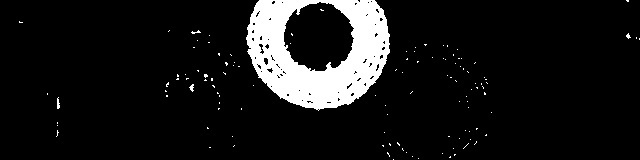
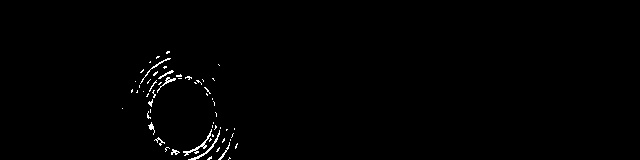
1126

diff --git a/GS_test.py b/GS_test.py
@@ -86,6 +86,7 @@ template_order_2 = cv2.imread('pic/template/template_order_2.jpg', cv2.IMREAD_GR
 template_1_level = cv2.imread('pic/template/template_1_level.jpg', cv2.IMREAD_GRAYSCALE)
 template_2_level = cv2.imread('pic/template/template_2_level.jpg', cv2.IMREAD_GRAYSCALE)
 template_zp_bullseye = cv2.imread('pic/template/template_zp_bullseye.jpg', cv2.IMREAD_GRAYSCALE)
+template_cpq_md = cv2.imread('pic/template/template_cpq_md.jpg', cv2.IMREAD_GRAYSCALE)
 ################################################################
 def OpenLight():
     GPIO.output(Light_up,1)
@@ -1352,7 +1353,7 @@ def getPos_5(color): # 暂存区取物料第一层
     (minVal, maxVal, minLoc, maxLoc) = cv2.minMaxLoc(result)
     x, y = maxLoc
     return x, y
-def getPos_6(color): #转盘打靶识别物料位置
+def getPos_6(color): # 转盘打靶识别物料位置
     temp = global_value.get_value('frame_up')
     height, width = temp.shape[:2]
     center = (width/2, height/2)
@@ -1381,7 +1382,7 @@ def getPos_6(color): #转盘打靶识别物料位置
     (minVal, maxVal, minLoc, maxLoc) = cv2.minMaxLoc(result)
     x, y = maxLoc
     return x, y
-def getPos_9(color): #第二次转盘打靶识别物料位置
+def getPos_9(color): # 判断成品区物料顺序
     temp = global_value.get_value('frame_up')
     height, width = temp.shape[:2]
     center = (width/2, height/2)
@@ -1392,25 +1393,36 @@ def getPos_9(color): #第二次转盘打靶识别物料位置
     h, s, v = cv2.split(temp_hsv)
     if color == 'r':
         h1_mask = cv2.inRange(h, 0, 15)
-        h2_mask = cv2.inRange(h, 178, 180)
+        h2_mask = cv2.inRange(h, 170, 180)
         s_mask = cv2.inRange(s, 43, 255)
         v_mask = cv2.inRange(v, 46, 255)
         mask = h1_mask & s_mask & v_mask | h2_mask
+        result = cv2.matchTemplate(mask, template_cpq_md, cv2.TM_CCOEFF_NORMED)
+        # result = cv2.matchTemplate(mask, template_zp_bullseye, cv2.TM_CCOEFF_NORMED)
+        (minVal, maxVal, minLoc, maxLoc) = cv2.minMaxLoc(result)
+        x, y = maxLoc
+        return x, y, np.sum(mask)
     elif color == 'g':
-        h_mask = cv2.inRange(h, 30, 77)
+        h_mask = cv2.inRange(h, 35, 77)
         s_mask = cv2.inRange(s, 43, 255)
-        v_mask = cv2.inRange(v, 46, 255)
+        v_mask = cv2.inRange(v, 47, 255)
         mask = h_mask & s_mask & v_mask
+        result = cv2.matchTemplate(mask, template_cpq_md, cv2.TM_CCOEFF_NORMED)
+        # result = cv2.matchTemplate(mask, template_zp_bullseye, cv2.TM_CCOEFF_NORMED)
+        (minVal, maxVal, minLoc, maxLoc) = cv2.minMaxLoc(result)
+        x, y = maxLoc
+        return x, y, np.sum(mask)
     elif color == 'b':
         h_mask = cv2.inRange(h, 77, 124)
-        s_mask = cv2.inRange(s, 43, 255)
-        v_mask = cv2.inRange(v, 46, 255)
+        s_mask = cv2.inRange(s, 20, 255)
+        v_mask = cv2.inRange(v, 20, 255)
         mask = h_mask & s_mask & v_mask
-    result = cv2.matchTemplate(mask, template_wl, cv2.TM_CCOEFF_NORMED)
-    (minVal, maxVal, minLoc, maxLoc) = cv2.minMaxLoc(result)
-    x, y = maxLoc
-    return x, y, np.sum(mask)
-def getPos_7(color): #转盘打靶识别静止或运动
+        result = cv2.matchTemplate(mask, template_cpq_md, cv2.TM_CCOEFF_NORMED)
+        # result = cv2.matchTemplate(mask, template_zp_bullseye, cv2.TM_CCOEFF_NORMED)
+        (minVal, maxVal, minLoc, maxLoc) = cv2.minMaxLoc(result)
+        x, y = maxLoc
+        return x, y, np.sum(mask)
+def getPos_7(color): # 转盘第一次打靶识别静止或运动
     temp = global_value.get_value('frame_up')
     height, width = temp.shape[:2]
     center = (width/2, height/2)
@@ -1460,6 +1472,35 @@ def getPos_8(color): # 暂存区取物料第二层
         v_mask = cv2.inRange(v, 46, 255)
         mask = h_mask & s_mask & v_mask
     result = cv2.matchTemplate(mask, template_2_level, cv2.TM_CCOEFF_NORMED)
+    (minVal, maxVal, minLoc, maxLoc) = cv2.minMaxLoc(result)
+    x, y = maxLoc
+    return x, y
+def getPos_10(color):# 转盘第二次打靶识别静止或运动
+    temp = global_value.get_value('frame_up')
+    height, width = temp.shape[:2]
+    center = (width/2, height/2)
+    rotate_matrix = cv2.getRotationMatrix2D(center=center, angle=45, scale=1)
+    rotated_temp = cv2.warpAffine(src=temp, M=rotate_matrix, dsize=(width, height))
+    rotated_temp = rotated_temp[180:-1]
+    temp_hsv = cv2.cvtColor(rotated_temp, cv2.COLOR_BGR2HSV)
+    h, s, v = cv2.split(temp_hsv)
+    if color == 'r':
+        h1_mask = cv2.inRange(h, 0, 15)
+        h2_mask = cv2.inRange(h, 170, 180)
+        s_mask = cv2.inRange(s, 43, 255)
+        v_mask = cv2.inRange(v, 46, 255)
+        mask = h1_mask & s_mask & v_mask | h2_mask
+    elif color == 'g':
+        h_mask = cv2.inRange(h, 56, 77)
+        s_mask = cv2.inRange(s, 43, 255)
+        v_mask = cv2.inRange(v, 46, 255)
+        mask = h_mask & s_mask & v_mask
+    elif color == 'b':
+        h_mask = cv2.inRange(h, 100, 124)
+        s_mask = cv2.inRange(s, 43, 255)
+        v_mask = cv2.inRange(v, 46, 255)
+        mask = h_mask & s_mask & v_mask
+    result = cv2.matchTemplate(mask, template_cpq_md, cv2.TM_CCOEFF_NORMED)
     (minVal, maxVal, minLoc, maxLoc) = cv2.minMaxLoc(result)
     x, y = maxLoc
     return x, y
@@ -1889,7 +1930,7 @@ def arm_grab():
     S.write(bytes.fromhex('ff 01 0b 14 00'))
     S.write(bytes.fromhex('ff 02 0b fd 05'))
 # 放手动作
-def arm_losse():
+def arm_losses():
     S.write(bytes.fromhex('ff 01 0b 14 00'))
     S.write(bytes.fromhex('ff 02 0b 8e 04'))
 def arm_interim():
@@ -2074,9 +2115,6 @@ def arm_zp_md3():
     S.write(bytes.fromhex('ff 02 08 b0 03'))
     S.write(bytes.fromhex('ff 02 09 dc 05'))
     S.write(bytes.fromhex('ff 02 0a fd 04'))
-    
-    
-
 ################################################################
 #颜色识别
 def ColorRecognition(color, img):
@@ -2867,6 +2905,7 @@ def arm_jjg_2():
 def MoveOrStatic(color):
     frame1 = global_value.get_value('frame_up')
     x1, y1 = ColorRecognition(color, frame1)
+    time.sleep(0.1)
     frame2 = global_value.get_value('frame_up')
     x2, y2 = ColorRecognition(color, frame2)
     # return abs(x2-x1) + abs(y2-y1)
@@ -2874,11 +2913,18 @@ def MoveOrStatic(color):
         return 0   #move
     elif abs(x2-x1) + abs(y2-y1) < 2:
         return 1   #static
-def MoveOrStatic_2(color):
-    frame1 = global_value.get_value('frame')
+def MoveOrStatic_2(color):# 成品区一次打靶判断静止或移动
     x1, y1 = getPos_7(color)
-    frame2 = global_value.get_value('frame')
+    time.sleep(0.1)
     x2, y2 = getPos_7(color)
+    if abs(x2-x1) + abs(y2-y1) >= 2:
+        return 'move'   #move
+    elif abs(x2-x1) + abs(y2-y1) < 2:
+        return 'static'   #static
+def MoveOrStatic_3(color): # 成品区二次打靶判断静止或移动
+    x1, y1 = getPos_10(color)
+    time.sleep(0.1)
+    x2, y2 = getPos_10(color)
     if abs(x2-x1) + abs(y2-y1) >= 2:
         return 'move'   #move
     elif abs(x2-x1) + abs(y2-y1) < 2:
@@ -2969,28 +3015,28 @@ def arm_cpq_2():
     elif ys[3] == 'r':
         S.write(data13)
         time.sleep(2.8)
-    while 1:
-        if MoveOrStatic_2(ys[3]) == 'static':
-            if ys[3] == 'b':
-                _, _, k = getPos_9(ys[3])
-                if k < 1000000:
-                    break
-            elif ys[3] == 'r':
-                _, _, k = getPos_9(ys[3])
-                if k < 4000000:
-                    break
-            elif ys[3] == 'g':
-                _, _, k = getPos_9(ys[3])
-                if k < 2000000:
-                    break
+    while MoveOrStatic_3(ys[3]) == 'move' or (order_cpq[ys[3]] == 3 and getPos_9(ys[3])[2]>1000000):
+        pass
     cv2.imwrite('pic/adjust_sample/cpq/cpq2-1.jpg', global_value.get_value('frame_up'))
     order_cpq = get_order_cpq()
     if order_cpq[ys[3]] == 1:
-        S.write(data7)
-        time.sleep(1.3)
+        if getPos_9(ys[3])[2] < 1000000:
+            S.write(data7)
+            time.sleep(1.3)
+        else:
+            arm_cpq_2()
+            time.sleep(1)
+            arm_losses()
+            time.sleep(0.3)
     elif order_cpq[ys[3]] == 2:
-        S.write(data8)
-        time.sleep(1.3)
+        if getPos_9(ys[3])[2] < 1000000:
+            S.write(data8)
+            time.sleep(1.3)
+        else:
+            arm_cpq_1()
+            time.sleep(1)
+            arm_losses()
+            time.sleep(0.3)
     elif order_cpq[ys[3]] == 3:
         S.write(data9)
         time.sleep(1.3)
@@ -3005,28 +3051,28 @@ def arm_cpq_2():
     elif ys[4] == 'r':
         S.write(data13)
         time.sleep(2.8)
-    while 1:
-        if MoveOrStatic_2(ys[4]) == 'static':
-            if ys[4] == 'b':
-                _, _, k = getPos_9(ys[4])
-                if k < 1000000:
-                    break
-            elif ys[4] == 'r':
-                _, _, k = getPos_9(ys[4])
-                if k < 4000000:
-                    break
-            elif ys[4] == 'g':
-                _, _, k = getPos_9(ys[4])
-                if k < 2000000:
-                    break
+    while MoveOrStatic_3(ys[3]) == 'move' or (order_cpq[ys[4]] == 3 and getPos_9(ys[4])[2]>1000000):
+        pass
     cv2.imwrite('pic/adjust_sample/cpq/cpq2-2.jpg', global_value.get_value('frame_up'))
     order_cpq = get_order_cpq()
     if order_cpq[ys[4]] == 1:
-        S.write(data7)
-        time.sleep(1.3)
+        if getPos_9(ys[4])[2] < 1000000:
+            S.write(data7)
+            time.sleep(1.3)
+        else:
+            arm_cpq_2()
+            time.sleep(1)
+            arm_losses()
+            time.sleep(0.3)
     elif order_cpq[ys[4]] == 2:
-        S.write(data8)
-        time.sleep(1.3)
+        if getPos_9(ys[4])[2] < 1000000:
+            S.write(data8)
+            time.sleep(1.3)
+        else:
+            arm_cpq_1()
+            time.sleep(1)
+            arm_losses()
+            time.sleep(0.3)
     elif order_cpq[ys[4]] == 3:
         S.write(data9)
         time.sleep(1.3)
@@ -3041,31 +3087,31 @@ def arm_cpq_2():
     elif ys[5] == 'r':
         S.write(data13)
         time.sleep(2.8)
-    while 1:
-        if MoveOrStatic_2(ys[5]) == 'static':
-            if ys[5] == 'b':
-                _, _, k = getPos_9(ys[5])
-                if k < 1000000:
-                    break
-            elif ys[5] == 'r':
-                _, _, k = getPos_9(ys[5])
-                if k < 4000000:
-                    break
-            elif ys[5] == 'g':
-                _, _, k = getPos_9(ys[5])
-                if k < 2500000:
-                    break
+    while MoveOrStatic_3(ys[5]) == 'move' or (order_cpq[ys[5]] == 3 and getPos_9(ys[5])[2]>1000000):
+        pass
     cv2.imwrite('pic/adjust_sample/cpq/cpq2-3.jpg', global_value.get_value('frame_up'))
     order_cpq = get_order_cpq()
     if order_cpq[ys[5]] == 1:
-        S.write(data7)
-        time.sleep(1.4)
+        if getPos_9(ys[5])[2] < 1000000:
+            S.write(data7)
+            time.sleep(1.3)
+        else:
+            arm_cpq_2()
+            time.sleep(1)
+            arm_losses()
+            time.sleep(0.3)
     elif order_cpq[ys[5]] == 2:
-        S.write(data8)
-        time.sleep(1.4)
+        if getPos_9(ys[5])[2] < 1000000:
+            S.write(data8)
+            time.sleep(1.3)
+        else:
+            arm_cpq_1()
+            time.sleep(1)
+            arm_losses()
+            time.sleep(0.3)
     elif order_cpq[ys[5]] == 3:
         S.write(data9)
-        time.sleep(1.4)
+        time.sleep(1.3)
         
     arm_initialize()
 ################################################################
